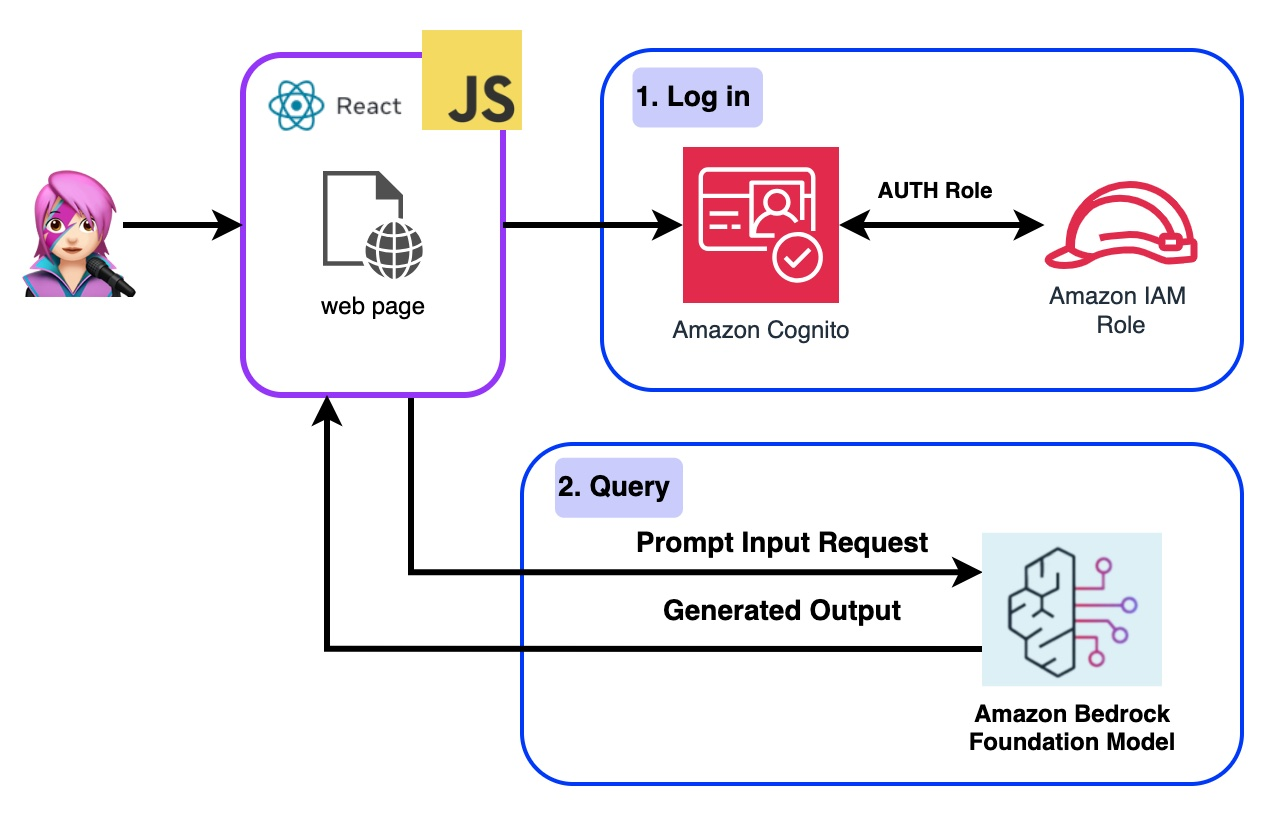
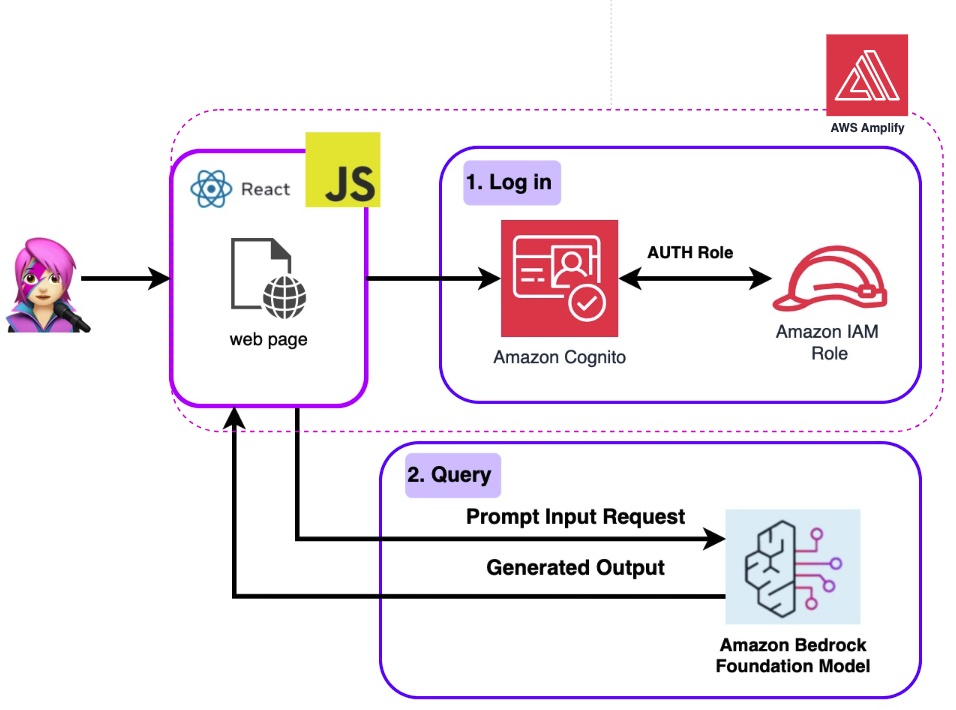
readme

Changed region(s): [[0.0, 0.031, 1.0, 0.9915]]

diff --git a/README.md b/README.md
@@ -1,13 +1,38 @@
 # Building Reactjs generative AI apps with Amazon Bedrock Javascript SDK
 
-In our continued learning about how to create applications using generative AI, we have been experimenting with conversational agents and have developed an application that can directly query the [Amazon Bedrock API ](https://docs.aws.amazon.com/bedrock/latest/APIReference/welcome.html) using React and JavaScript, with no any additional layers. 
+Integrating generative AI into existing applications presents challenges. Many developers have limited experience in training foundations models, but the aim is to integrate generative AI capabilities with minimal code changes.
 
-This blog will teach you how to use [Amazon Cognito](https://aws.amazon.com/pm/cognito/) credentials to access the [Amazon Bedrock](https://aws.amazon.com/bedrock/) API in a react-based application with JavaScript and the CloudScape design system. Built and deployed using [AWS Amplify](https://aws.amazon.com/amplify/).
+To solve this, we created an application that integrates the power of generative AI with a call to the [Amazon Bedrock API](https://docs.aws.amazon.com/bedrock/latest/APIReference/welcome.html) from a web application in React/JavaScript. With no middleware, eliminating the barrier of incorporating AI generation through minimal code integration.
+
+This blog will teach you how to use [Amazon Cognito](https://aws.amazon.com/pm/cognito/) credentials to access the [Amazon Bedrock](https://aws.amazon.com/bedrock/) API in a react-based application with JavaScript and the [CloudScape](https://cloudscape.design/) design system. Built and deployed using [AWS Amplify](https://aws.amazon.com/amplify/).
 
 ![Authentication](imagenes/auth.jpg)
 
 
 ## How Does This Application Work?
+
+In the [repository of this application](https://github.com/build-on-aws/building-reactjs-gen-ai-apps-with-amazon-bedrock-javascript-sdk/), you will find the code ready to deploy the backend and frontend.
+
+✅ **Backend:** made up with Amazon Cognito, with an [AWs Identity and Access ManagemenRole](https://docs.aws.amazon.com/es_es/IAM/latest/UserGuide/id_roles.html)(IAM Role) that contains the policy with the permissions to invoke Amazon Bedrock.
+
+```
+{ policyName: "amplify-permissions-custom-resources",
+            policyDocument: {
+                Version: "2012-10-17",
+                Statement: [
+                    {
+                        Resource: "*",
+                        Action: ["bedrock:InvokeModel*", "bedrock:List*", "bedrock:Retrieve*"],
+                        Effect: "Allow",
+                    }
+                ]
+            }
+        }
+```
+
+> Code: [IAM Role Code](https://github.com/elizabethfuentes12/building-a-gen-ai-personal-assistant/blob/main/reactjs-gen-ai-apps/amplify/backend/awscloudformation/override.ts)
+
+✅ **Frontend:** made up React, JavaScript and the [CloudScape](https://cloudscape.design/)Scape design system.
 
 This application comprises 3 demos:
 
@@ -214,22 +239,41 @@ In the case of creating a new role, select **Amplify** as a service and select *
 
 ![Select trusted entity](imagenes/role_amplify.jpg)
 
+### Step 2 - Access to the AWS Amplify App:
 
- 
+Once the application has been deployed, go to the link in the application, which is located under the white box.
 
-Install/update [AWS Amplify](https://aws.amazon.com/amplify/getting-started/) on your computer or environment.
+![Amplify Deploy](imagenes/amplify_done.jpg)
 
+When you enter the link, the Sing In window will appear, so you must create a  [Amazon Cognito User Pool](https://docs.aws.amazon.com/cognito/latest/developerguide/cognito-user-identity-pools.html) User.
 
+![Sing In Window](imagenes/sing_in.jpg)
 
-## Test The React Generative AI Application With Amazon Bedrock Javascript SDK
+#### ✅ How To Create A User
 
-amplify init
-amplify status
-amplify push -y
-amplify -help
-amplify upgrade
-amplify push -y
-npm install && amplify publish -y
+In the App go to **Backend environments** and click on Authentication. 
+
+![Backend environments](imagenes/backend_env.jpg)
+
+Then, under Authentication, click **View in Cognito**:
+
+![View in Cognito](imagenes/view_in_cognito.jpg)
+
+In the **User Pool**, click the name of your user pool and **Create User**.
+
+[Create your user](https://docs.aws.amazon.com/cognito/latest/developerguide/managing-users.html?icmpid=docs_cognito_console_help_panel) and then sing in.
+
+> **Note:** You can create the user directly from the application by changing False `hideSignUp: false` in [App.jsx](https://github.com/elizabethfuentes12/building-a-gen-ai-personal-assistant/blob/main/reactjs-gen-ai-apps/src/App.jsx), but this can introduce a security flaw by giving anyone access to it.
+
+## Let's Try React Generative AI Application With Amazon Bedrock Javascript SDK
+
+Before you can use a foundation model in Amazon Bedrock, you must request access to it. Follow the step in [Add model access guide](https://docs.aws.amazon.com/bedrock/latest/userguide/model-access.html). 
+
+Go to the application link and sign in with the user you created.
+
+🤖🚀 Try and test the app! 
+
+![Chat Q&A](imagenes/Q_A.jpg)
 
 
 ## Conclusion
@@ -238,21 +282,11 @@ In this blog, we discuss how to create a React application that can directly acc
 
 With this you can incorporate powerful Amazon Bedrock generative AI capabilities into new and existing React applications. This allows developers to focus on creating engaging conversation experiences, knowledge bases, and agent demos instead of managing authentication and authorization themselves.
 
-```
-* Change the title in this README
-* Edit your repository description on GitHub
+## 🚀 Some links for you to continue learning and building:
 
- 3902  amplify init
- 3903  amplify status
- 3904  amplify push -y
- 3905  amplify -help
- 3906  amplify upgrade
- 3907  amplify push -y
- 3908  npm install && amplify publish -y
-
- Como crear una knowledge base
-
-https://aws.amazon.com/es/blogs/developer/announcing-the-end-of-support-for-node-js-14-x-in-the-aws-sdk-for-javascript-v3/
+- [Amplify Workshops](https://workshops.aws/categories/Amplify)
+- [Amplify JavaScript Sample Applications](https://github.com/aws-amplify/amplify-js-samples)
+- [Actions and scenarios using SDK for JavaScript](https://docs.aws.amazon.com/sdk-for-javascript/v3/developer-guide/javascript_code_examples_categorized.html)
 
 ## Security
 
